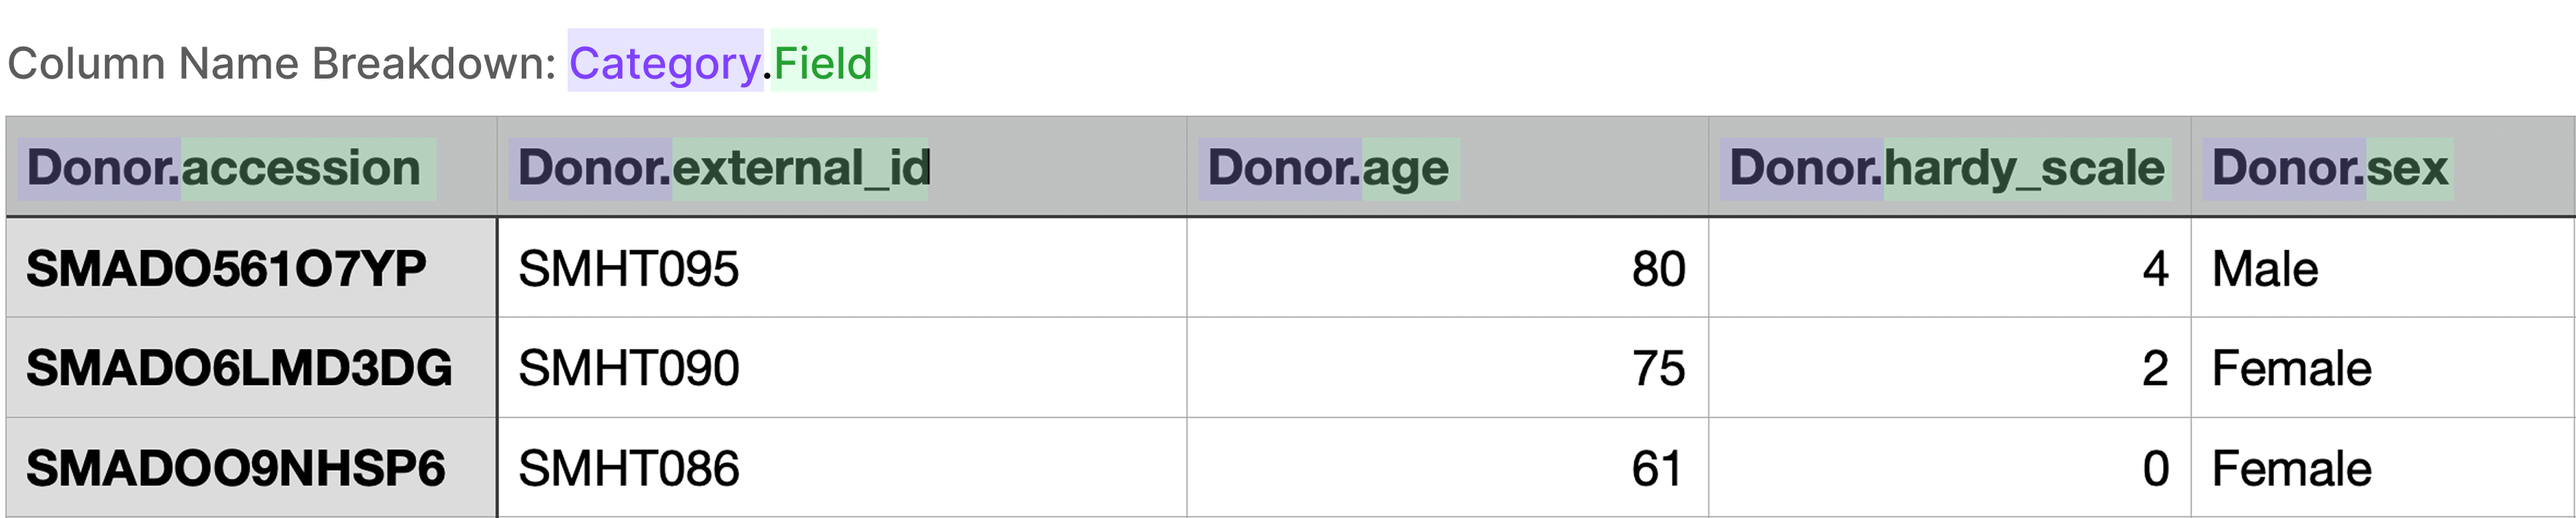
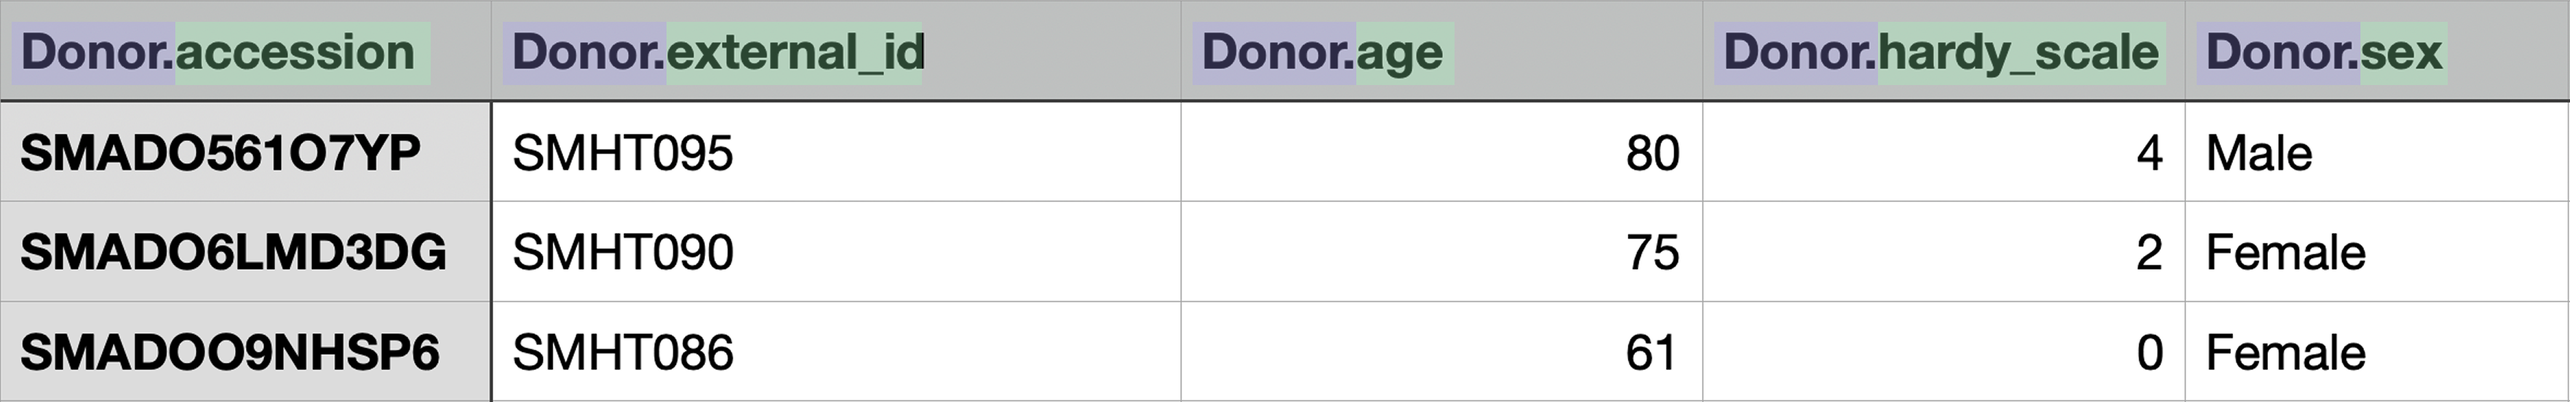
feat: move text out of image

diff --git a/src/encoded/static/components/static-pages/DonorManifestDataDictionary.js b/src/encoded/static/components/static-pages/DonorManifestDataDictionary.js
@@ -256,10 +256,17 @@ export const DonorManifestDataDictionary = () => {
                     scale are protected data under dbGaP. No protected
                     information is shown on this page.
                 </p>
-                <img
-                    src="/static/img/docs/donor_manifest_breakdown.png"
-                    alt="Donor Manifest Breakdown"
-                />
+                <div className="diagram d-flex flex-column align-items-start">
+                    <p className="mb-1">
+                        Column Name Breakdown:{' '}
+                        <span className="category p-1">Category</span>:
+                        <span className="field p-1">Field</span>
+                    </p>
+                    <img
+                        src="/static/img/docs/donor_manifest_breakdown.png"
+                        alt="Donor Manifest Breakdown"
+                    />
+                </div>
             </div>
             <hr className="my-4"></hr>
             <Select

diff --git a/src/encoded/static/scss/encoded/modules/_static-pages.scss b/src/encoded/static/scss/encoded/modules/_static-pages.scss
@@ -3302,6 +3302,23 @@ FAQ page styles
 // Schema Reference pages (Data Dictionary)
 .static-section-entry#donor_manifest_dictionary {
 	.schema-reference-page {
+		.callout {
+			.diagram {
+				color: black;
+				.category {
+					color: #6631D0;
+					background-color: #a49cff45;
+				}
+				.field {
+					color: #00930F;
+					background-color: #9cffb645;
+				}
+				img {
+					width: 65%;
+					max-width: 900px;
+				}
+			}
+		}
 		.example {
 			color: $gray-70;
 		}
